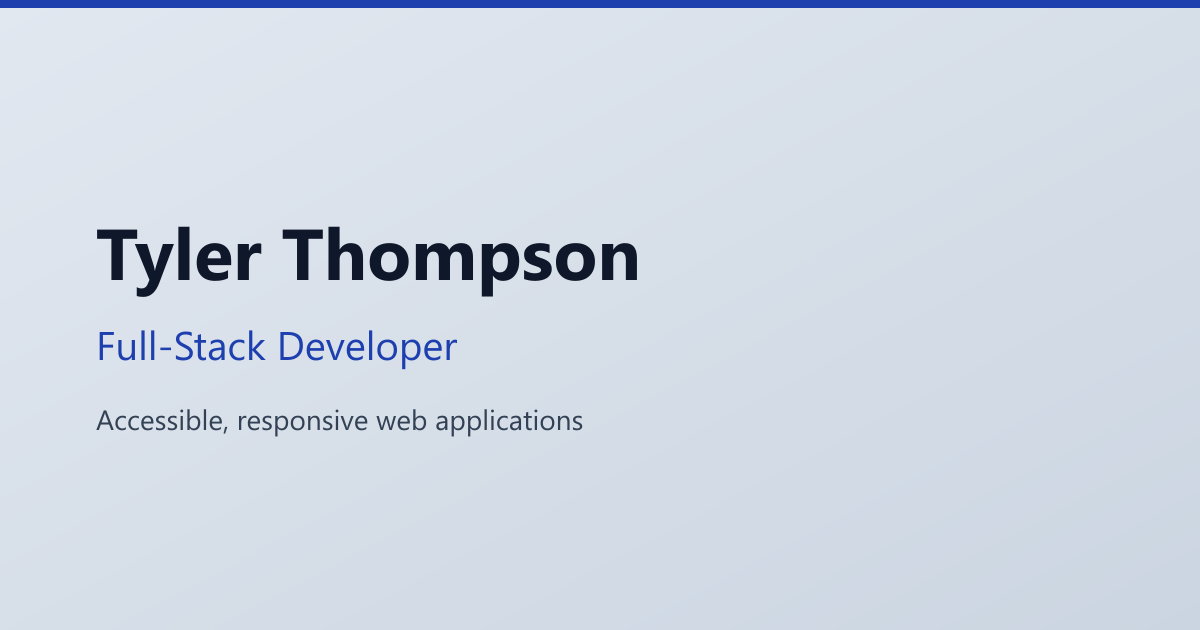
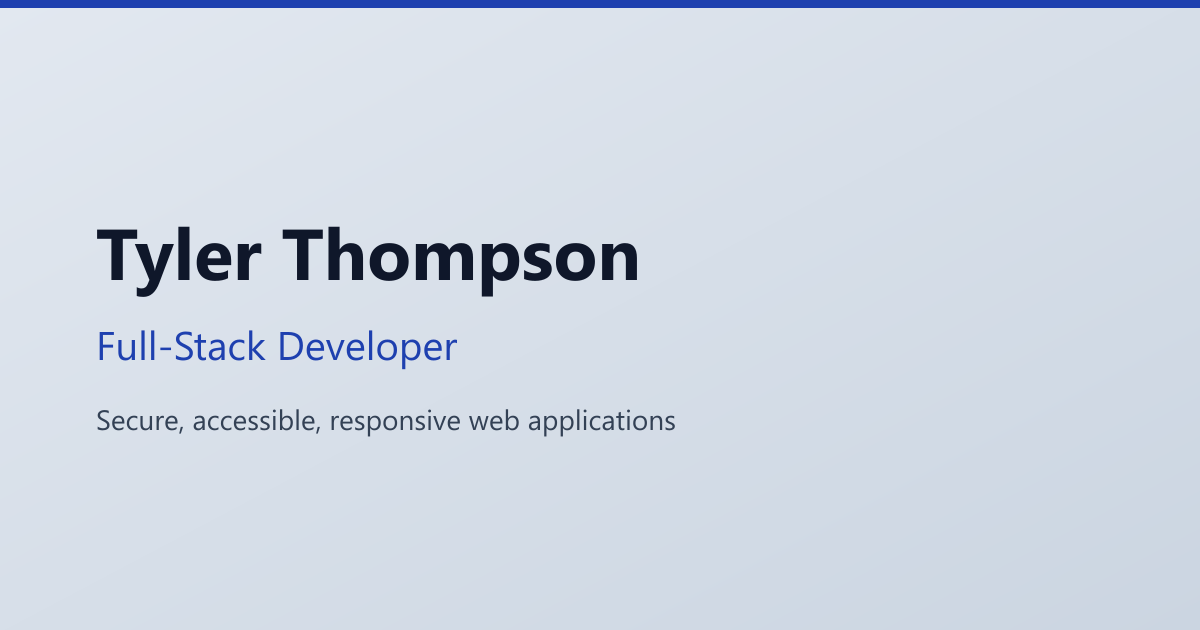
Add secure to Open Graph image and site description.
Regenerates og-image.png so social previews match hero messaging.

Changed region(s): [[0.0617, 0.6333, 0.555, 0.6937]]

diff --git a/lib/site.ts b/lib/site.ts
@@ -9,7 +9,7 @@ export const siteConfig = {
   name: 'Tyler Thompson',
   title: 'Tyler Thompson | Full-Stack Developer',
   description:
-    'Portfolio of Tyler Thompson — full-stack developer and recent CSUMB Computer Science graduate building accessible, responsive web applications.',
+    'Portfolio of Tyler Thompson — full-stack developer and recent CSUMB Computer Science graduate building secure, accessible, responsive web applications.',
   locale: 'en_US',
   ogImageAlt: 'Tyler Thompson — Full-Stack Developer portfolio',
   email: 'tdthompson650@gmail.com',
